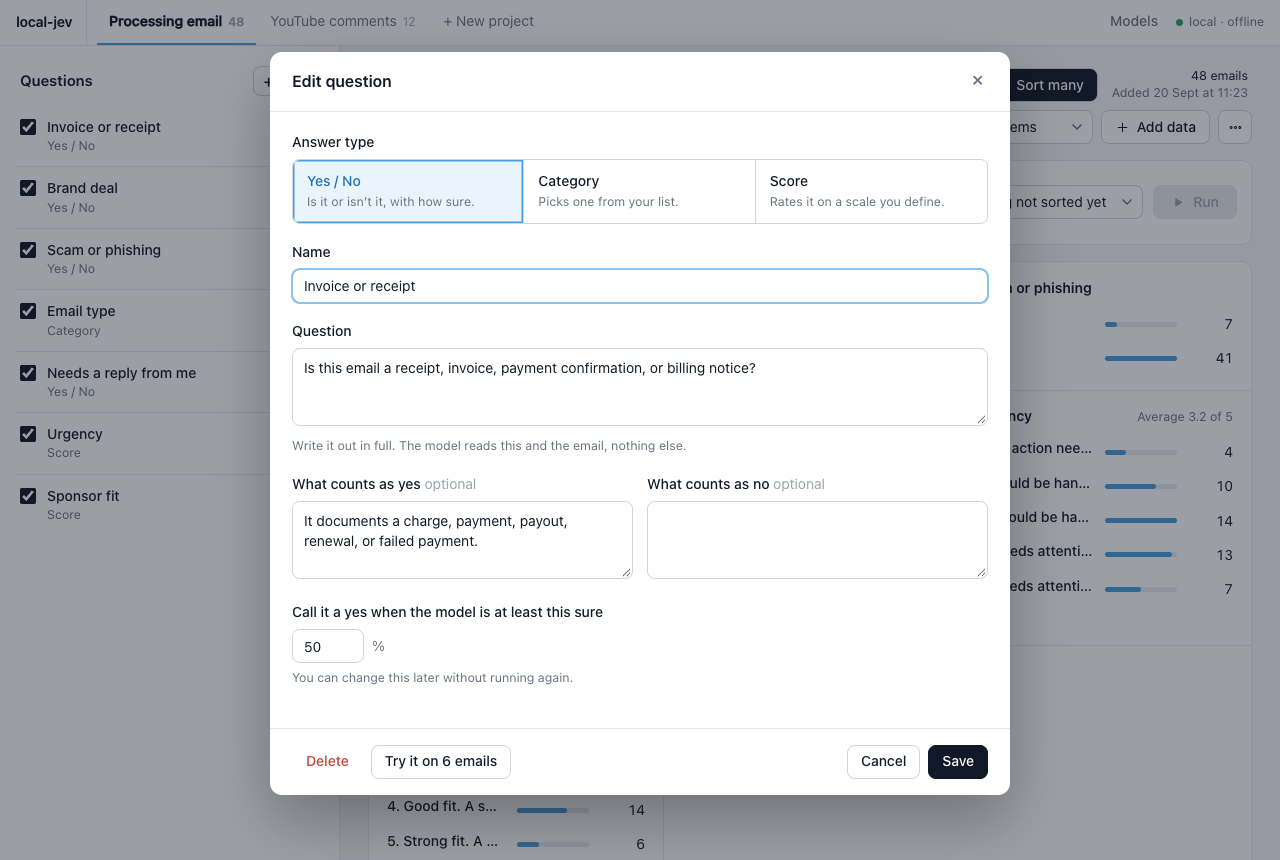
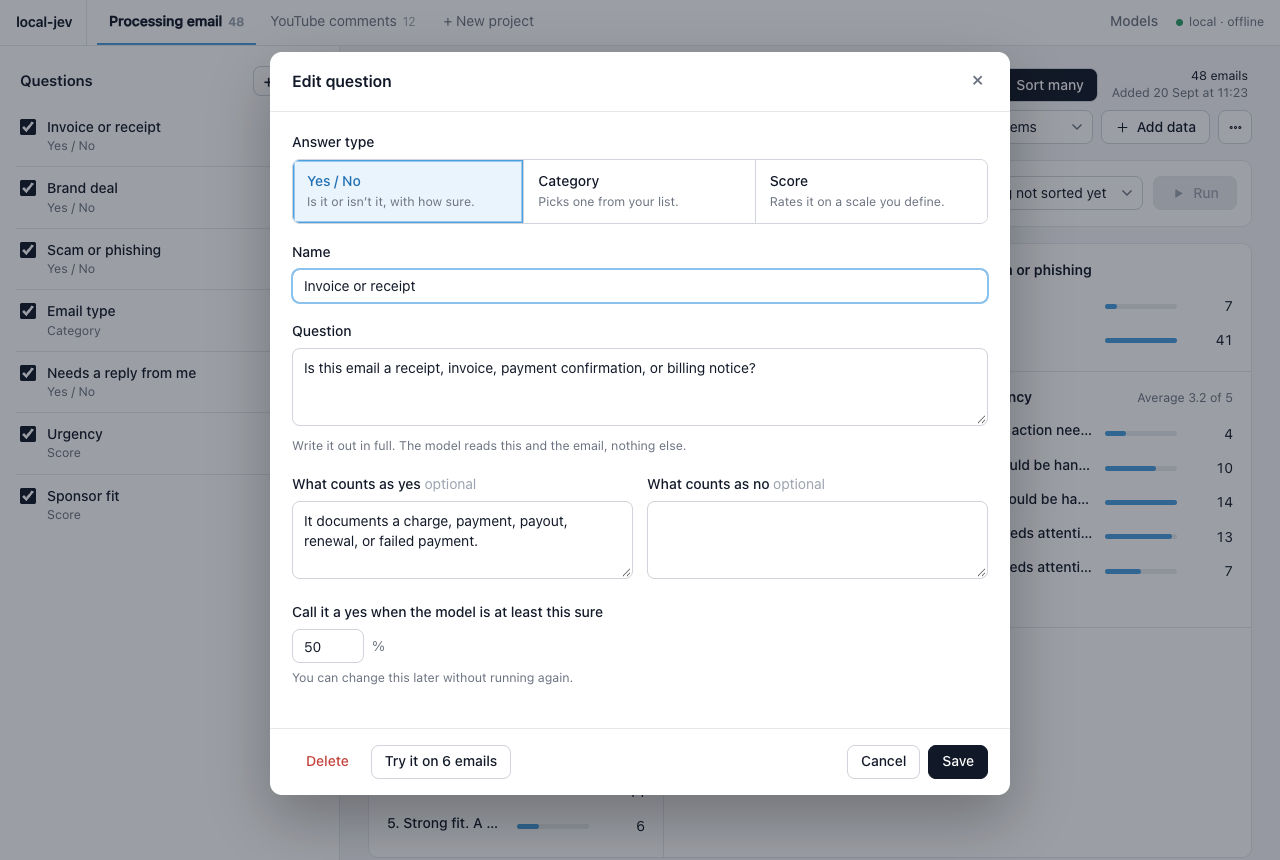
Add MIT licence; bring docs up to date with the fine-tune result
- LICENSE (MIT) and licence references in README, CONTRIBUTING,
  related work and pyproject.toml
- Record the evaluated entailment fine-tune (55.8% vs 54.1% on
  JevBench, not shipped) across the docs and the training diagram;
  train_nli.py now writes priority 55 and batch_size 32
- Fix stale facts: /api/meta, Test one rows, test counts, clone URL,
  GPU step time; require transformers>=5.2 for Qwen3.5
- Retake portal screenshots; give the comparison report 8 distinct
  series colours

Claude-Session: https://claude.ai/code/session_01SHcKPLLAPaeuZ6jitXKDSn

diff --git a/evals/compare/report_template.html b/evals/compare/report_template.html
@@ -6,11 +6,11 @@
 <title>System One comparison</title>
 <style>
 :root { color-scheme: light; --bg:#f6f6f4; --surface:#fcfcfb; --line:#e4e3de; --text:#0b0b0b; --text2:#52514e; --muted:#8a8984; --track:#ecebe6; --chip:#f0efea;
-        --good:#0ca30c; --critical:#d03b3b; --s1:#2a78d6; --s2:#eb6834; --s3:#1baf7a; --s4:#eda100; --s5:#e87ba4; --s6:#008300; }
+        --good:#0ca30c; --critical:#d03b3b; --s1:#2a78d6; --s2:#eb6834; --s3:#1baf7a; --s4:#eda100; --s5:#e87ba4; --s6:#008300; --s7:#8e5bd9; --s8:#b0612a; }
 @media (prefers-color-scheme: dark) { :root:where(:not([data-theme="light"])) { color-scheme: dark; --bg:#111110; --surface:#1a1a19; --line:#2e2e2b; --text:#fff;
-        --text2:#c3c2b7; --muted:#8f8e86; --track:#2a2a27; --chip:#262623; --s1:#3987e5; --s2:#d95926; --s3:#199e70; --s4:#c98500; --s5:#d55181; --s6:#008300; } }
+        --text2:#c3c2b7; --muted:#8f8e86; --track:#2a2a27; --chip:#262623; --s1:#3987e5; --s2:#d95926; --s3:#199e70; --s4:#c98500; --s5:#d55181; --s6:#008300; --s7:#9d6fe6; --s8:#c0703a; } }
 :root[data-theme="dark"] { color-scheme: dark; --bg:#111110; --surface:#1a1a19; --line:#2e2e2b; --text:#fff; --text2:#c3c2b7; --muted:#8f8e86; --track:#2a2a27;
-        --chip:#262623; --s1:#3987e5; --s2:#d95926; --s3:#199e70; --s4:#c98500; --s5:#d55181; --s6:#008300; }
+        --chip:#262623; --s1:#3987e5; --s2:#d95926; --s3:#199e70; --s4:#c98500; --s5:#d55181; --s6:#008300; --s7:#9d6fe6; --s8:#c0703a; }
 * { box-sizing: border-box; }
 body { margin:0; background:var(--bg); color:var(--text); font:14px/1.5 -apple-system,BlinkMacSystemFont,"Segoe UI",Inter,Roboto,Helvetica,Arial,sans-serif; -webkit-font-smoothing:antialiased; }
 main { max-width:1240px; margin:0 auto; padding:28px 16px 80px; }
@@ -84,7 +84,7 @@ const esc = (s) => String(s ?? "").replace(/[&<>"']/g, (c) => ({ "&":"&amp;","<"
 const pct = (x) => x == null ? "–" : Math.round(x * 100) + "%";
 const TYPE = { choice: "Category", noul: "Yes / No", score: "Score" };
 const SYS = D.systems, S = D.summary;
-SYS.forEach((s, i) => { s.color = `var(--s${Math.min(i + 1, 6)})`; });      // colour follows the system, in fixed order
+SYS.forEach((s, i) => { s.color = `var(--s${Math.min(i + 1, 8)})`; });      // colour follows the system, in fixed order; 8 distinct
 const sw = (s) => `<i class="sw" style="background:${s.color}"></i>`;
 
 $("#lede").textContent = `${D.rows.length} hand-written test cases across ${Object.keys(D.breakdown.domain).length} domains, each with a known correct answer, ` +

diff --git a/training/train_nli.py b/training/train_nli.py
@@ -201,7 +201,8 @@ def main():
     name = args.name or os.path.basename(args.out.rstrip("/"))
     from local_jev.models import USER_CARDS_DIR
     USER_CARDS_DIR.mkdir(parents=True, exist_ok=True)
-    card = {"name": name, "backend": "nli", "priority": 75, "hf_model": os.path.abspath(args.out), "context_tokens": 512,
+    # Priority 55: above the untuned model, below every LLM; the first run did not beat them on JevBench (docs/training.md).
+    card = {"name": name, "backend": "nli", "priority": 55, "hf_model": os.path.abspath(args.out), "context_tokens": 512, "batch_size": 32,
             "description": f"{args.base} fine-tuned by training/train_nli.py on {len(train)} examples of this project's gold-labelled data.",
             "release_date": time.strftime("%Y-%m-%d"), "license": "MIT base model (MoritzLaurer/deberta-v3-large-zeroshot-v2.0)"}
     json.dump(card, open(USER_CARDS_DIR / f"{name}.json", "w"), indent=1)

diff --git a/docs/architecture.md b/docs/architecture.md
@@ -92,7 +92,7 @@ Backends must raise `ContextOverflow` when an item does not fit and `truncate` i
 | Context window | 512 tokens | 32,768 tokens (`context_tokens` in the card) | the smallest member's |
 | Download on first use | 0.87 GB | 3.09 GB (Qwen2.5-1.5B) to 9.32 GB (Qwen3.5-4B) | its members |
 | JevBench public items (231) | 54.1% | 58.9% to 80.5% | the former built-in pairing: 68.8% |
-| Fine-tuned by this project | optional: `training/train_nli.py` (no tuned model has been evaluated yet) | no, used zero-shot | no |
+| Fine-tuned by this project | optional: `training/train_nli.py` (one run evaluated: 55.8% on JevBench against 54.1% untuned; not shipped) | no, used zero-shot | no |
 | Calibrated by this project | yes, temperatures ship in the card | yes | pools its members' calibrated probabilities |
 | Licence of the built-in models | MIT (MoritzLaurer/deberta-v3-large-zeroshot-v2.0) | Apache-2.0 (Qwen) | no built-in card |
 
@@ -312,7 +312,7 @@ An abridged built-in card:
 | `summary`, `use_when`, `avoid_when` | the UI | plain-language guidance shown on the Models page and in the model picker |
 | everything else | the backend, as options | `hf_model`, `context_tokens`, `batch_size`, `device` for `nli` and `llm`; `prompt`, `dtype` and `share_prefix` for `llm`; `members` and `weights` for `ensemble` |
 
-Pointing a new card at a different Hugging Face repository, or at a local model directory, is all it takes to try another entailment model or another instruct model. `ModelCard.unavailable()` returns the reason a model cannot be loaded right now, or `None`; the CLI, `GET /api/models` and the UI all show it. `on_disk()` reports whether a model's weights are already in the local cache (for an ensemble, whether all its members' are).
+Pointing a new card at a different Hugging Face repository, or at a local model directory, is all it takes to try another entailment model or another instruct model. `ModelCard.unavailable()` returns the reason a model cannot be loaded right now, or `None`; the CLI, `GET /api/meta` and the UI all show it. `on_disk()` reports whether a model's weights are already in the local cache (for an ensemble, whether all its members' are).
 
 ### Choosing a model
 
@@ -329,10 +329,11 @@ With none of these, `default_model()` picks the highest-`priority` model **whose
 |---|---|---|
 | `llm-qwen3.5-4b` | 95 | 80.5% |
 | `llm-qwen3-4b` | 80 | 70.1% |
-| fine-tuned models written by `train_nli.py` | 75 | not yet measured |
 | `llm-qwen3.5-2b` | 70 | 66.2% |
 | `llm-qwen2.5-1.5b` | 60 | 58.9% |
 | `nli-deberta-large` | 50 | 54.1% |
+
+A fine-tuned entailment model written by `train_nli.py` gets priority 55, above only the untuned one: the first run measured 55.8% on JevBench ([training.md](training.md#results-so-far)).
 
 The aliases `jev-latest`, `jev-preview` and `local-jev-latest` all mean the default, so clients written for Jev work without changing their `model` field. `local-jev models` prints every card with its backend, priority and status.
 
@@ -394,11 +395,11 @@ The **spec hash** covers only what affects the model's output: type, instruction
 
 **Results** are aggregated per question: yes/no counts at the current threshold, counts per option, counts per nearest level plus the average score. Clicking a row filters the item list; filters combine. **Export** writes the currently filtered items with their answers as CSV. **Try it** runs a draft question over six evenly spaced items and saves nothing, so wording can be tuned before a full run.
 
-**Two views.** A project opens in *Test one*: a single textarea on the left and one card per question on the right. Ask posts the text to `POST /api/projects/{id}/ask` (`{"state", "model", "question_ids"}`), which runs every question of the project, ticked or not, against that one state through the same `Engine.answer_many` path as a batch run, with truncation to the project's token setting, and returns the Jev-shaped answers plus their buckets, latency and token count. Nothing is written. Text that parses as a JSON object or array is sent as structure, so a pasted `{"subject": ..., "body": ...}` is judged as fields. Each card records the question's spec hash at the time of the ask: rewording a question blanks only that card until the next ask, while renaming it or moving its threshold keeps the answer (the yes/no verdict is recomputed in the browser). *Sort many* is the batch view described above; the choice is remembered per project.
+**Two views.** A project opens in *Test one*: a single textarea on the left and, on the right, one list with a row per question: the question, the verdict and its probabilities. Ask posts the text to `POST /api/projects/{id}/ask` (`{"state", "model", "question_ids"}`), which runs every question of the project, ticked or not, against that one state through the same `Engine.answer_many` path as a batch run, with truncation to the project's token setting, and returns the Jev-shaped answers plus their buckets, latency and token count. Nothing is written. Text that parses as a JSON object or array is sent as structure, so a pasted `{"subject": ..., "body": ...}` is judged as fields. Each row records the question's spec hash at the time of the ask: rewording a question blanks only that row until the next ask, while renaming it or moving its threshold keeps the answer (the yes/no verdict is recomputed in the browser). *Sort many* is the batch view described above; the choice is remembered per project.
 
 **Import** accepts CSV/TSV (each row becomes an object; a one-column file becomes strings), JSON, JSONL, plain text (split by line or by paragraph), `.eml` and `.mbox`. Files are read in the browser and posted as text; nothing leaves the machine.
 
-**Models.** The run bar has a model picker fed by `GET /api/models`: each entry shows the model's backend, its JevBench accuracy and median latency from the card, and models that cannot be loaded are disabled with the reason. A **Models page** (`/#models`) is the guide to choosing: an accuracy-against-speed scatter plot, accuracy by tier, and a card per model with its `summary`, `use_when` and `avoid_when` guidance and a *Use this model* button. Screenshots are in the [README](../README.md#the-ui). Answers are stored per (item, question, model), so running the same project under two backends keeps both sets of results and switching the dropdown switches the view.
+**Models.** Both views share a model picker fed by `GET /api/meta`: each entry shows the model's JevBench accuracy and median latency from the card, and models that cannot be loaded are disabled with the reason. A **Models page** (`/#models`) is the guide to choosing: an accuracy-against-speed scatter plot, accuracy by tier, and a card per model with its `summary`, `use_when` and `avoid_when` guidance and a *Use this model* button. Screenshots are in the [README](../README.md#the-ui). Answers are stored per (item, question, model), so running the same project under two backends keeps both sets of results and switching the dropdown switches the view.
 
 A sample project, *Processing email*, is seeded on first start with a small set of synthetic emails and seven questions (invoice or receipt, brand deal, scam or phishing, email type, needs a reply, urgency, sponsor fit).
 

diff --git a/docs/training.md b/docs/training.md
@@ -94,11 +94,11 @@ Every example is stored in Jev's wire format, `{"state", "question", "gold", "ta
 
 `training/train_nli.py`
 
-**Status: a first full run is in progress on an RTX 3090 Ti (3,399 steps). No fine-tuned entailment model has been evaluated yet, and there are no results for one.** Everything below describes the design and how a result should be judged, not an outcome.
+**Status: one full run has been evaluated ([results](#results-so-far)).** It generalised to held-out public tasks (73.9% to 82.5%) but not to JevBench (54.1% to 55.8%, within noise), so it is not shipped. The design below is unchanged.
 
 ### Why try, and why be careful
 
-The untuned entailment model is the smallest and fastest model here (0.87 GB, 76 ms median on JevBench), and the weakest judge: 54.1% on JevBench's public items, against 58.9% to 80.5% for the built-in LLMs. It does well on clear-cut classification (45 of 48 easy items) and poorly on policy application and multi-step judgments (41 of 72 standard, 39 of 111 hard). On this project's public validation rows it measures roughly 0.73 to 0.74 on choices, 0.75 to 0.76 on yes/no and 0.33 to 0.46 on scores (small samples).
+The untuned entailment model is the smallest and fastest model here (0.87 GB, 76 ms median on JevBench), and the weakest judge: 54.1% on JevBench's public items, against 58.9% to 80.5% for the built-in LLMs. It does well on clear-cut classification (45 of 48 easy items) and poorly on policy application and multi-step judgments (41 of 72 standard, 39 of 111 hard). On this project's public validation rows it measures roughly 0.72 to 0.74 on choices, 0.70 to 0.76 on yes/no and 0.33 to 0.50 on scores (samples of 200 to 1,200 rows).
 
 A fine-tune could make the small, fast option more useful. Expectations should be modest: another team's DeBERTa fine-tune scores 52.4% on the same JevBench items, slightly below this untuned model.
 
@@ -117,7 +117,7 @@ The risk is that full fine-tuning erodes the zero-shot generality the model does
   For scores, rivals are not sampled uniformly: **neighbouring levels are preferred**, because telling level 3 from level 4 is the distinction that is hard and the one that matters.
 - **Gentle defaults.** Learning rate 5e-6, one pass over 40,000 examples (`--examples`, `--epochs 1`), AdamW with weight decay 0.01, 5% warm-up then cosine decay, gradient clipping at 1.0, sequences capped at 384 tokens, about 32 (premise, hypothesis) pairs per step (`--pair-budget`; lower it if memory runs out). On CUDA it trains under bf16 autocast; otherwise it uses Apple MPS or the CPU.
 - **Validation split by primitive.** Every `--eval-every` steps, and once before the first step for the untuned baseline, it reports loss and accuracy on held-back rows separately for choice, score and yes/no. An aggregate number mixes two-way and many-way questions and can hide a primitive that is getting worse.
-- **What it writes.** A Hugging Face model directory under `models/hf/<name>/`, saved at every evaluation point so a run can be stopped early, and a card at `models/cards/<name>.json` with `backend: "nli"`, `priority: 75` and `hf_model` pointing at that directory. The server lists the model on its next start. Priority 75 ranks it above the untuned entailment model (50) and `llm-qwen3.5-2b` (70), and below the two 4B LLMs, so it becomes the default only on a machine that has not fetched those.
+- **What it writes.** A Hugging Face model directory under `models/hf/<name>/`, saved at every evaluation point so a run can be stopped early, and a card at `models/cards/<name>.json` with `backend: "nli"`, `priority: 55`, `batch_size: 32` and `hf_model` pointing at that directory. The server lists the model on its next start. Priority 55 ranks it above the untuned entailment model (50) and below every LLM, because the first run did not beat them; raise it by hand if your run does.
 
 For NVIDIA hardware, see [training/README-gpu.md](../training/README-gpu.md).
 
@@ -264,4 +264,4 @@ Data generation is seeded, so the same command produces the same examples. `buil
 
 ## Where the numbers are
 
-All measured results, with reproduction commands and caveats, are in **[results.md](results.md)**: JevBench for every built-in model, the hand-written comparator, the prompt-layout experiment and performance. Fine-tuning results will appear [above](#results-so-far) once there are any. The two fine-tuned models the project built and then retired are in [history.md](history.md#what-two-fine-tuned-adapters-achieved).
+All measured results, with reproduction commands and caveats, are in **[results.md](results.md)**: JevBench for every built-in model, the hand-written comparator, the prompt-layout experiment and performance. Fine-tuning results are [above](#results-so-far). The two fine-tuned models the project built and then retired are in [history.md](history.md#what-two-fine-tuned-adapters-achieved).

diff --git a/training/README-gpu.md b/training/README-gpu.md
@@ -2,7 +2,7 @@
 
 `training/train_nli.py` fine-tunes the `nli` backend's model (DeBERTa-v3-large zero-shot, 435M) on this project's gold-labelled data. It is ordinary PyTorch, so it needs none of the JAX/XLA memory settings an earlier version of this guide described.
 
-**Status: not yet shown to help; no fine-tuned model has been evaluated.** The untuned model scores 54.1% on JevBench's public items ([results](../docs/results.md)), strong on clear-cut classification and weak on hard questions. Full fine-tuning can *erode* the zero-shot generality it does have, so treat a run as an experiment: judge the result on the held-out tasks and on JevBench before using it (step 4).
+**Status: the first run did not help on JevBench.** It lifted nine held-out public tasks from 73.9% to 82.5%, but JevBench's public items only from 54.1% to 55.8%, within noise ([results](../docs/training.md#results-so-far)). The untuned model is strong on clear-cut classification and weak on hard questions. Full fine-tuning can *erode* the zero-shot generality it does have, so treat a run as an experiment: judge the result on the held-out tasks and on JevBench before using it (step 4).
 
 Requirements: Linux or WSL2, a CUDA 12 driver, Python 3.10+, [uv](https://docs.astral.sh/uv/). A 24 GB card is comfortable; 12 GB should work with a smaller `--pair-budget`.
 
@@ -15,7 +15,7 @@ Requirements: Linux or WSL2, a CUDA 12 driver, Python 3.10+, [uv](https://docs.a
 ## 1. Set up
 
 ```sh
-git clone <this repo> ~/local-jev && cd ~/local-jev
+git clone https://github.com/amithgc/local-jev ~/local-jev && cd ~/local-jev
 uv venv --python 3.12 .venv
 uv pip install --python .venv/bin/python -e ".[dev]"          # dev: the dataset tools build_data.py needs
 .venv/bin/python -c "import torch; print(torch.cuda.is_available(), torch.cuda.get_device_name(0))"    # expect: True NVIDIA GeForce RTX 3090 Ti
@@ -39,7 +39,7 @@ If you still have `data/train.jsonl` from an earlier build, reuse it: the format
 rm -f models/cards/nli-smoke.json
 ```
 
-Look for `device: cuda`, a loss that is a number (not `nan`) and falls, and a step time well under a second.
+Look for `device: cuda`, a loss that is a number (not `nan`) and falls, and a step time of a few seconds at most (the full run took about 4 s per step on an RTX 3090 Ti, 3,399 steps in about 4 hours).
 
 ```sh
 nohup .venv/bin/python training/train_nli.py --out models/hf/nli-deberta-large-ft1 \
@@ -61,4 +61,4 @@ Copy `models/hf/nli-deberta-large-ft1/` (about 1.7 GB) and `models/cards/nli-deb
 .venv/bin/python evals/run_eval.py --model nli-deberta-large-ft1 --n 100      # after
 ```
 
-Keep it only if it beats the untuned model on JevBench **and** on the held-out tasks. The card gives it priority 75: above the untuned entailment model (50) and `llm-qwen3.5-2b` (70), below the two 4B LLMs. It becomes the server's default only on a machine that has not fetched those; delete the card to undo that.
+Keep it only if it beats the untuned model on JevBench **and** on the held-out tasks. The card gives it priority 55: above the untuned entailment model (50) and below every LLM, so it becomes the server's default only on a machine that has fetched no LLM; delete the card to undo that.

diff --git a/CONTRIBUTING.md b/CONTRIBUTING.md
@@ -7,11 +7,11 @@ Thanks for looking. local-jev is a small project with a narrow goal: a local ser
 ```sh
 uv venv --python 3.12 .venv
 uv pip install --python .venv/bin/python -e ".[dev]"
-.venv/bin/python -m pytest          # 36 tests need no model weights and download none; 3 more are skipped without a live server
-LOCAL_JEV_URL=http://127.0.0.1:8765 .venv/bin/python -m pytest     # all 39, with `local-jev serve` running
+.venv/bin/python -m pytest          # 37 tests need no model weights and download none; 3 more are skipped without a live server
+LOCAL_JEV_URL=http://127.0.0.1:8765 .venv/bin/python -m pytest     # all 40, with `local-jev serve` running
 ```
 
-`models/`, `data/`, `.venv*/` and `secrets.txt` are git-ignored. Never commit weights, generated datasets or credentials.
+`models/`, `data/`, `.venv/`, `*.safetensors` and `secrets.txt` are git-ignored. Never commit weights, generated datasets or credentials.
 
 PyTorch and `transformers` are part of the base install. Model weights download from Hugging Face the first time a model is used (0.87 GB for the entailment model, 3.09 to 9.32 GB for the LLMs). For training on an NVIDIA GPU, see [training/README-gpu.md](training/README-gpu.md).
 
@@ -53,7 +53,7 @@ A card under `src/local_jev/cards/` ships with the package, so the bar is higher
 3. **Keep the wire format exact.** The `/v1` endpoints must stay compatible with the official `typesafe-sdk`. Extra fields need a strong reason.
 4. **Measure, then claim.** Quality claims come with numbers from an independent benchmark (JevBench's public items) and, where a model was trained, from the evaluation harness on held-out tasks. The hand-written comparator cases are a regression check; they proved far too easy to rank models. Speed claims come with the hardware, device and dtype. Do not report a number for a model that has not been run.
 5. **Offline by default.** Nothing in the serving path may make a network call other than the one-time weight download, and the server must never start a multi-gigabyte download on its own.
-6. **Model code stays in the backends.** PyTorch and `transformers` are imported only under `src/local_jev/backends/` and in `training/`, lazily. The engine, API, UI, store and evaluation code must not know which backend is running.
+6. **Model code stays in the backends.** PyTorch and `transformers` are imported only under `src/local_jev/backends/` and in `training/`, lazily (plus one import check in `ModelCard.unavailable()` that reports whether they are installed). The engine, API, UI, store and evaluation code must not know which backend is running.
 
 ## Code style
 
@@ -65,4 +65,4 @@ Diagrams live in `docs/assets/` as hand-written SVG with a PNG rendered beside e
 
 ## Licence
 
-The project's licence has not been chosen yet. By contributing you agree that your contribution may be distributed under whatever open-source licence the repository owner selects.
+local-jev is released under the [MIT License](LICENSE). By contributing you agree that your contribution is licensed under it too.

diff --git a/README.md b/README.md
@@ -8,7 +8,7 @@ A local, offline System One server. Software that needs a decision rather than p
 
 - On [JevBench](https://github.com/fstandhartinger/jevbench)'s 231 public items the default model answers **80.5%** correctly, against 86.6% published for the hosted Jev API and 81.0% for SemIf; the gap is on the hard tier. [All results](docs/results.md).
 - Local, offline after the first model download, and wire-compatible with Jev's `/v1/systemone` (checked with the unmodified official `typesafe-sdk`). An optional browser portal comes with it.
-- A research project, not a finished product. The licence has not been chosen yet ([below](#licence)).
+- A research project, not a finished product. MIT-licensed ([below](#licence)).
 
 ## Quick start
 
@@ -21,7 +21,7 @@ A local, offline System One server. Software that needs a decision rather than p
 **Install**
 
 ```sh
-git clone <this repo> local-jev && cd local-jev
+git clone https://github.com/amithgc/local-jev && cd local-jev
 uv venv --python 3.12 .venv
 uv pip install --python .venv/bin/python -e .          # add ".[dev]" for the tests and the training tools
 ```
@@ -300,7 +300,7 @@ No model in local-jev ever generates text. Each is asked the question in the for
 
 ```
 local-jev/
-├── README.md, CONTRIBUTING.md, pyproject.toml, .gitignore
+├── README.md, CONTRIBUTING.md, LICENSE, pyproject.toml, .gitignore
 ├── src/local_jev/
 │   ├── __init__.py
 │   ├── cli.py           `local-jev serve [--ui]`, `local-jev models`
@@ -349,14 +349,14 @@ Not in the repository, and git-ignored: model weights (downloaded to the Hugging
 
 ```sh
 uv pip install --python .venv/bin/python -e ".[dev]"
-.venv/bin/python -m pytest                         # 36 tests; 3 more are skipped without a live server
+.venv/bin/python -m pytest                         # 37 tests; 3 more are skipped without a live server
 ```
 
 The unit tests need no model weights and download nothing. The last three drive a running server through the unmodified official SDK:
 
 ```sh
 .venv/bin/local-jev serve --port 8765 &
-LOCAL_JEV_URL=http://127.0.0.1:8765 .venv/bin/python -m pytest      # all 39
+LOCAL_JEV_URL=http://127.0.0.1:8765 .venv/bin/python -m pytest      # all 40
 ```
 
 Diagrams in `docs/assets/` are hand-written SVG; `docs/assets/build.sh` renders the PNGs. See [CONTRIBUTING.md](CONTRIBUTING.md) for conventions, adding a backend and adding a model card.
@@ -373,7 +373,7 @@ Diagrams in `docs/assets/` are hand-written SVG; `docs/assets/build.sh` renders 
 
 ## Licence
 
-**Not chosen yet.** There is no `LICENSE` file, so no licence is granted for the code until the repository owner adds one.
+The code is released under the **MIT License**; see [LICENSE](LICENSE).
 
 Model weights are not part of this repository. local-jev downloads them from Hugging Face on first use, and each comes under its own licence, stated in its model card:
 

diff --git a/docs/related-work.md b/docs/related-work.md
@@ -15,7 +15,7 @@ None of these projects, nor local-jev, is affiliated with TypeSafe.
 | [DiffusionGemma structured mode](https://github.com/vllm-project/vllm/pull/57250), served by [razorback16/openjev](https://github.com/razorback16/openjev) | DiffusionGemma 26B-A4B | one "read-only" denoising step over a seeded canvas; logprobs at each answer slot | no | the openjev server implements it | Apache-2.0 (openjev) |
 | [NanoJev](https://github.com/TianyuCodings/NanoJev) | Qwen3-0.6B + decision heads | shared scoring head over candidate paths; set attention for Choice | yes: expert gameplay in four games | no (`/api/evaluate`) | MIT |
 | [Laya](https://github.com/NandhaKishorM/laya) | ModernBERT-large 421M; mmBERT-base 322M | encoder with typed decision heads, one forward pass | yes: RL against proper scoring rules (RLCD) | no (Python SDK) | Apache-2.0 |
-| **local-jev** (this project) | Qwen3.5-4B (default), Qwen3-4B-Instruct, Qwen3.5-2B, Qwen2.5-1.5B-Instruct, all zero-shot; DeBERTa-v3-large 435M zero-shot | logits over lettered options (plain or JSON layout, per model); entailment log-odds per answer | no (a fine-tuning run of the entailment model is in progress, no results) | yes; verified with the unmodified official SDK | see repository |
+| **local-jev** (this project) | Qwen3.5-4B (default), Qwen3-4B-Instruct, Qwen3.5-2B, Qwen2.5-1.5B-Instruct, all zero-shot; DeBERTa-v3-large 435M zero-shot | logits over lettered options (plain or JSON layout, per model); entailment log-odds per answer | no (one fine-tune of the entailment model was evaluated and not shipped) | yes; verified with the unmodified official SDK | MIT |
 
 ## The projects
 
@@ -65,7 +65,7 @@ A 0.6B Qwen3 backbone with decision heads (sigmoid for booleans, a set-attention
 
 An encoder-based system (ModernBERT-large 421M for English, mmBERT-base 322M for 100+ languages, plus a fine-tuned checkpoint) with typed decision heads, trained with reinforcement learning against strictly proper scoring rules, and a router that picks a checkpoint per request by script and language. It fits one temperature per question type and option count, ships workflow presets (routing, guardrails, moderation, triage) and a fine-tuning notebook, and reports 33 ms per question on a T4. It documents limits including a per-question option-token budget that makes large option sets (for example 77 intents) hard.
 
-**How local-jev differs:** local-jev supports up to 255 options and structured state through its backends, is English-first, and does not yet fine-tune; Laya is multilingual and trained.
+**How local-jev differs:** local-jev supports up to 255 options and structured state through its backends, is English-first, and ships no trained model (its one entailment fine-tune did not improve on JevBench); Laya is multilingual and trained.
 
 ## Where local-jev sits
 

diff --git a/docs/history.md b/docs/history.md
@@ -75,4 +75,6 @@ Until this point every model decision in this project, including the one above, 
 
 **Qwen3.5-4B became the default.** At 80.5% it is within two items of Jev (86.6%, published) on the easy and standard tiers and behind it on the hard tier (69 against 81 of 111). It is also the slowest built-in model on a Mac, because its hybrid linear-attention layers have no fast path in PyTorch's Apple-GPU backend; an MLX runtime is the obvious next step and does not exist yet.
 
+**Fine-tuning the entailment model did not transfer.** The data pipeline built for Needle went on to fine-tune the DeBERTa model on an RTX 3090 Ti (40,000 examples). It improved on nine public tasks it had never seen (73.9% to 82.5%) and barely moved on JevBench (54.1% to 55.8%, within noise), so it is not shipped ([training.md](training.md#results-so-far)).
+
 The lesson is the same one the Needle work taught in a different form: measure on a benchmark you did not write. The layout choice for each Qwen card was itself made on JevBench's public items, so the new numbers carry a mild version of the same optimism, and the benchmark's 303 held-out items have not been run.
